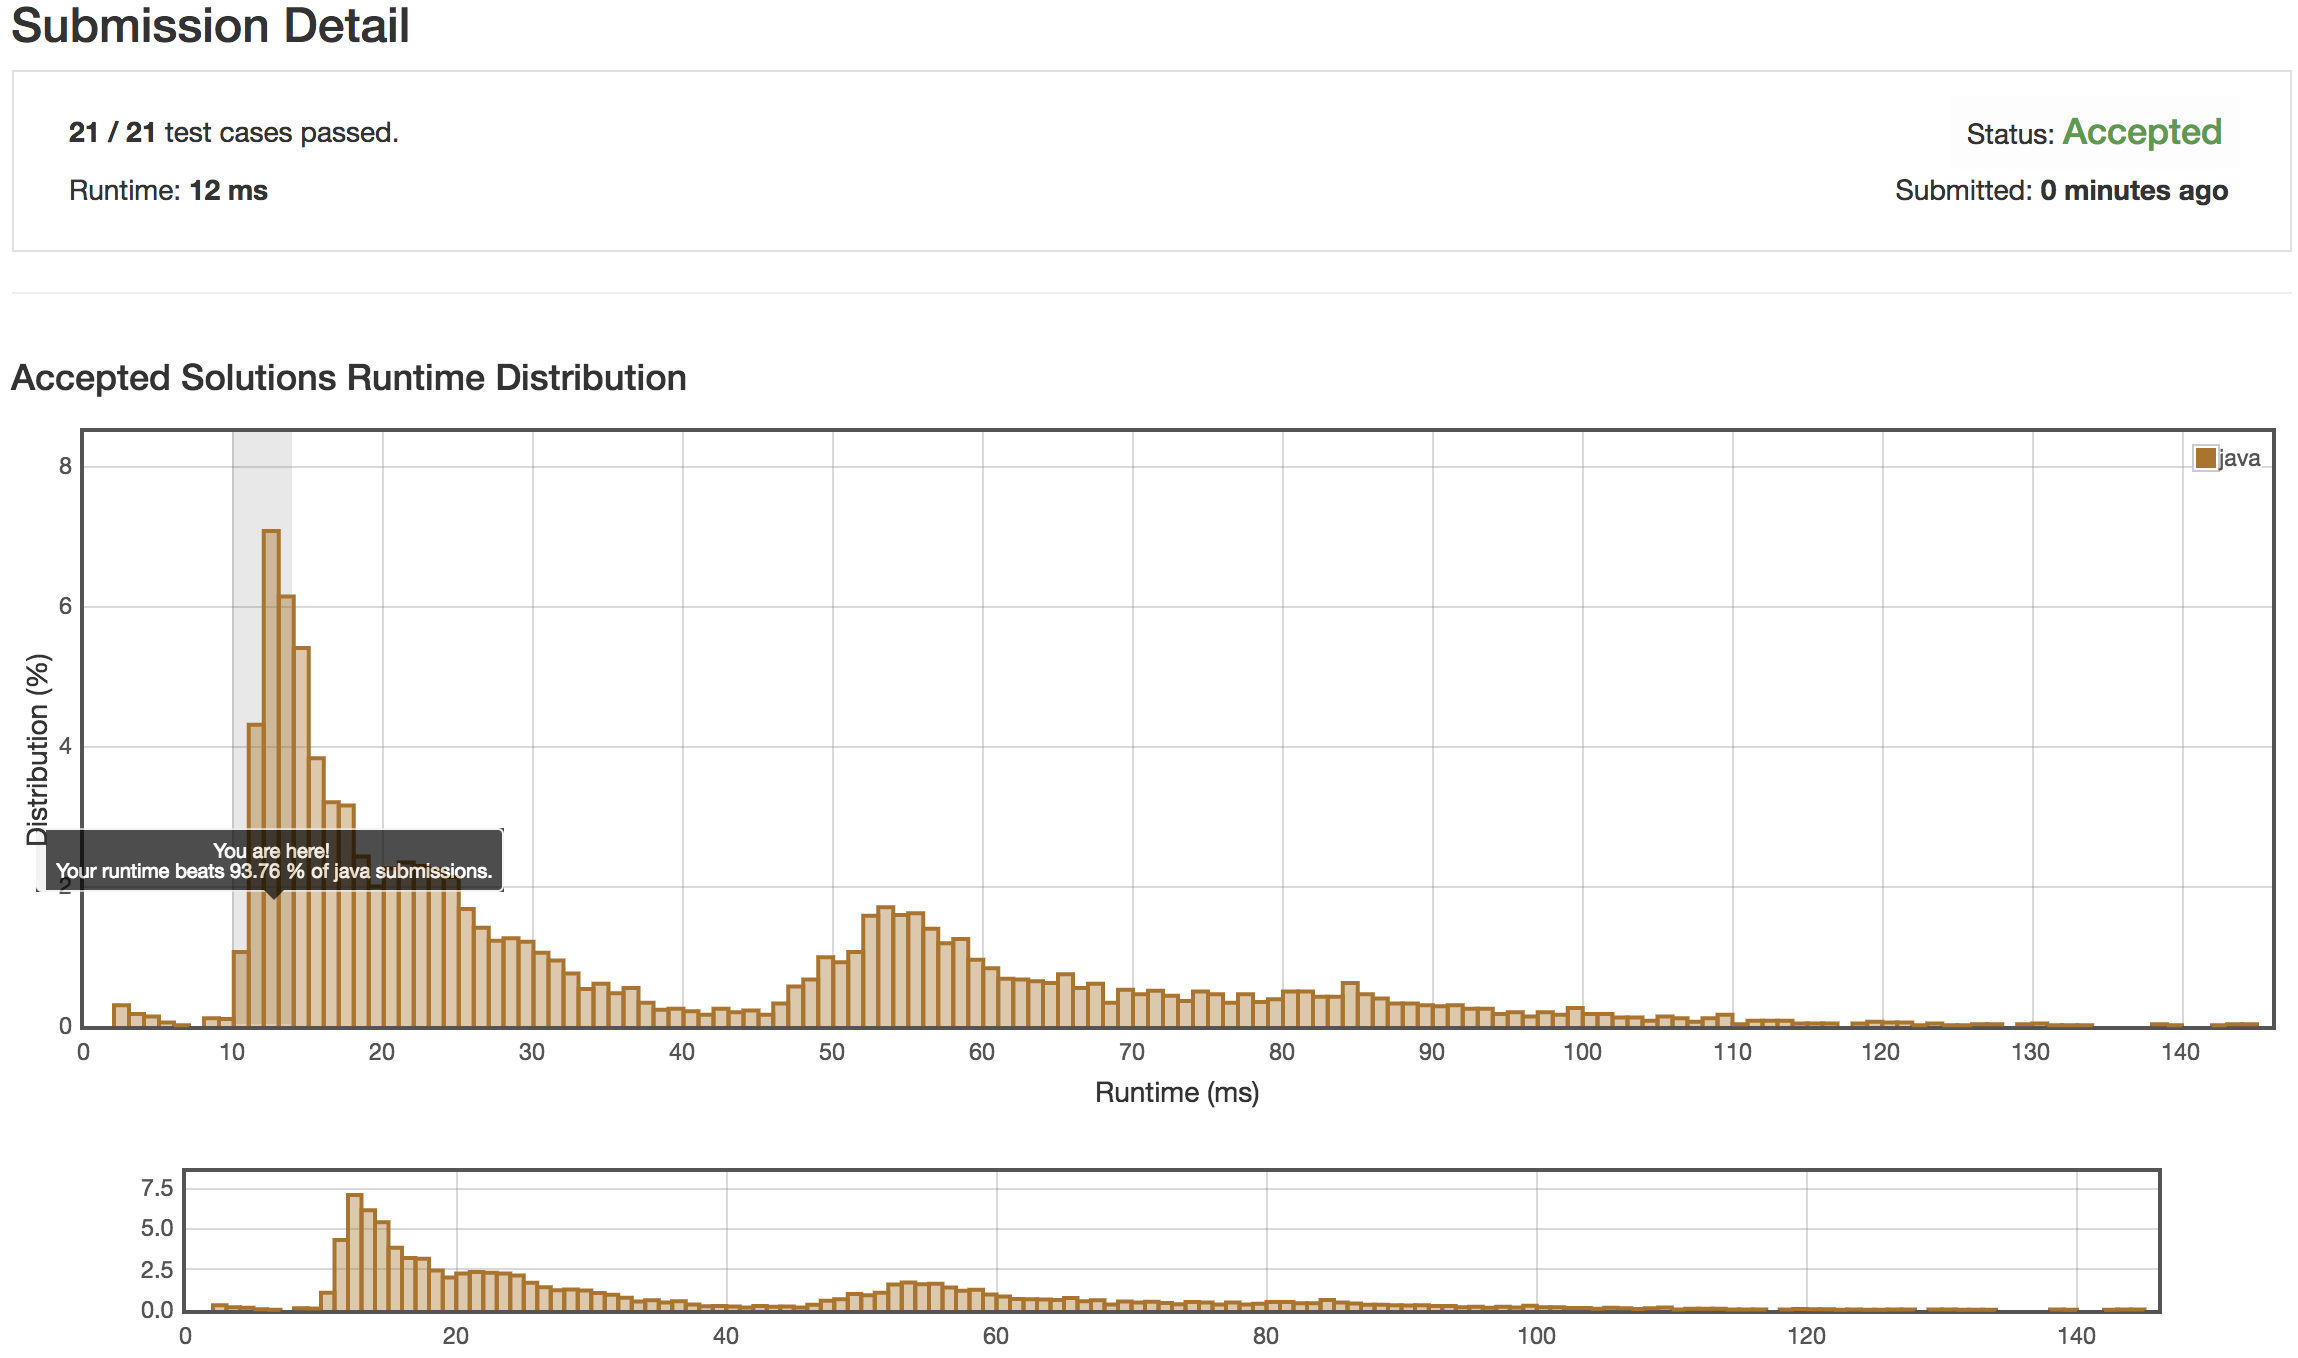
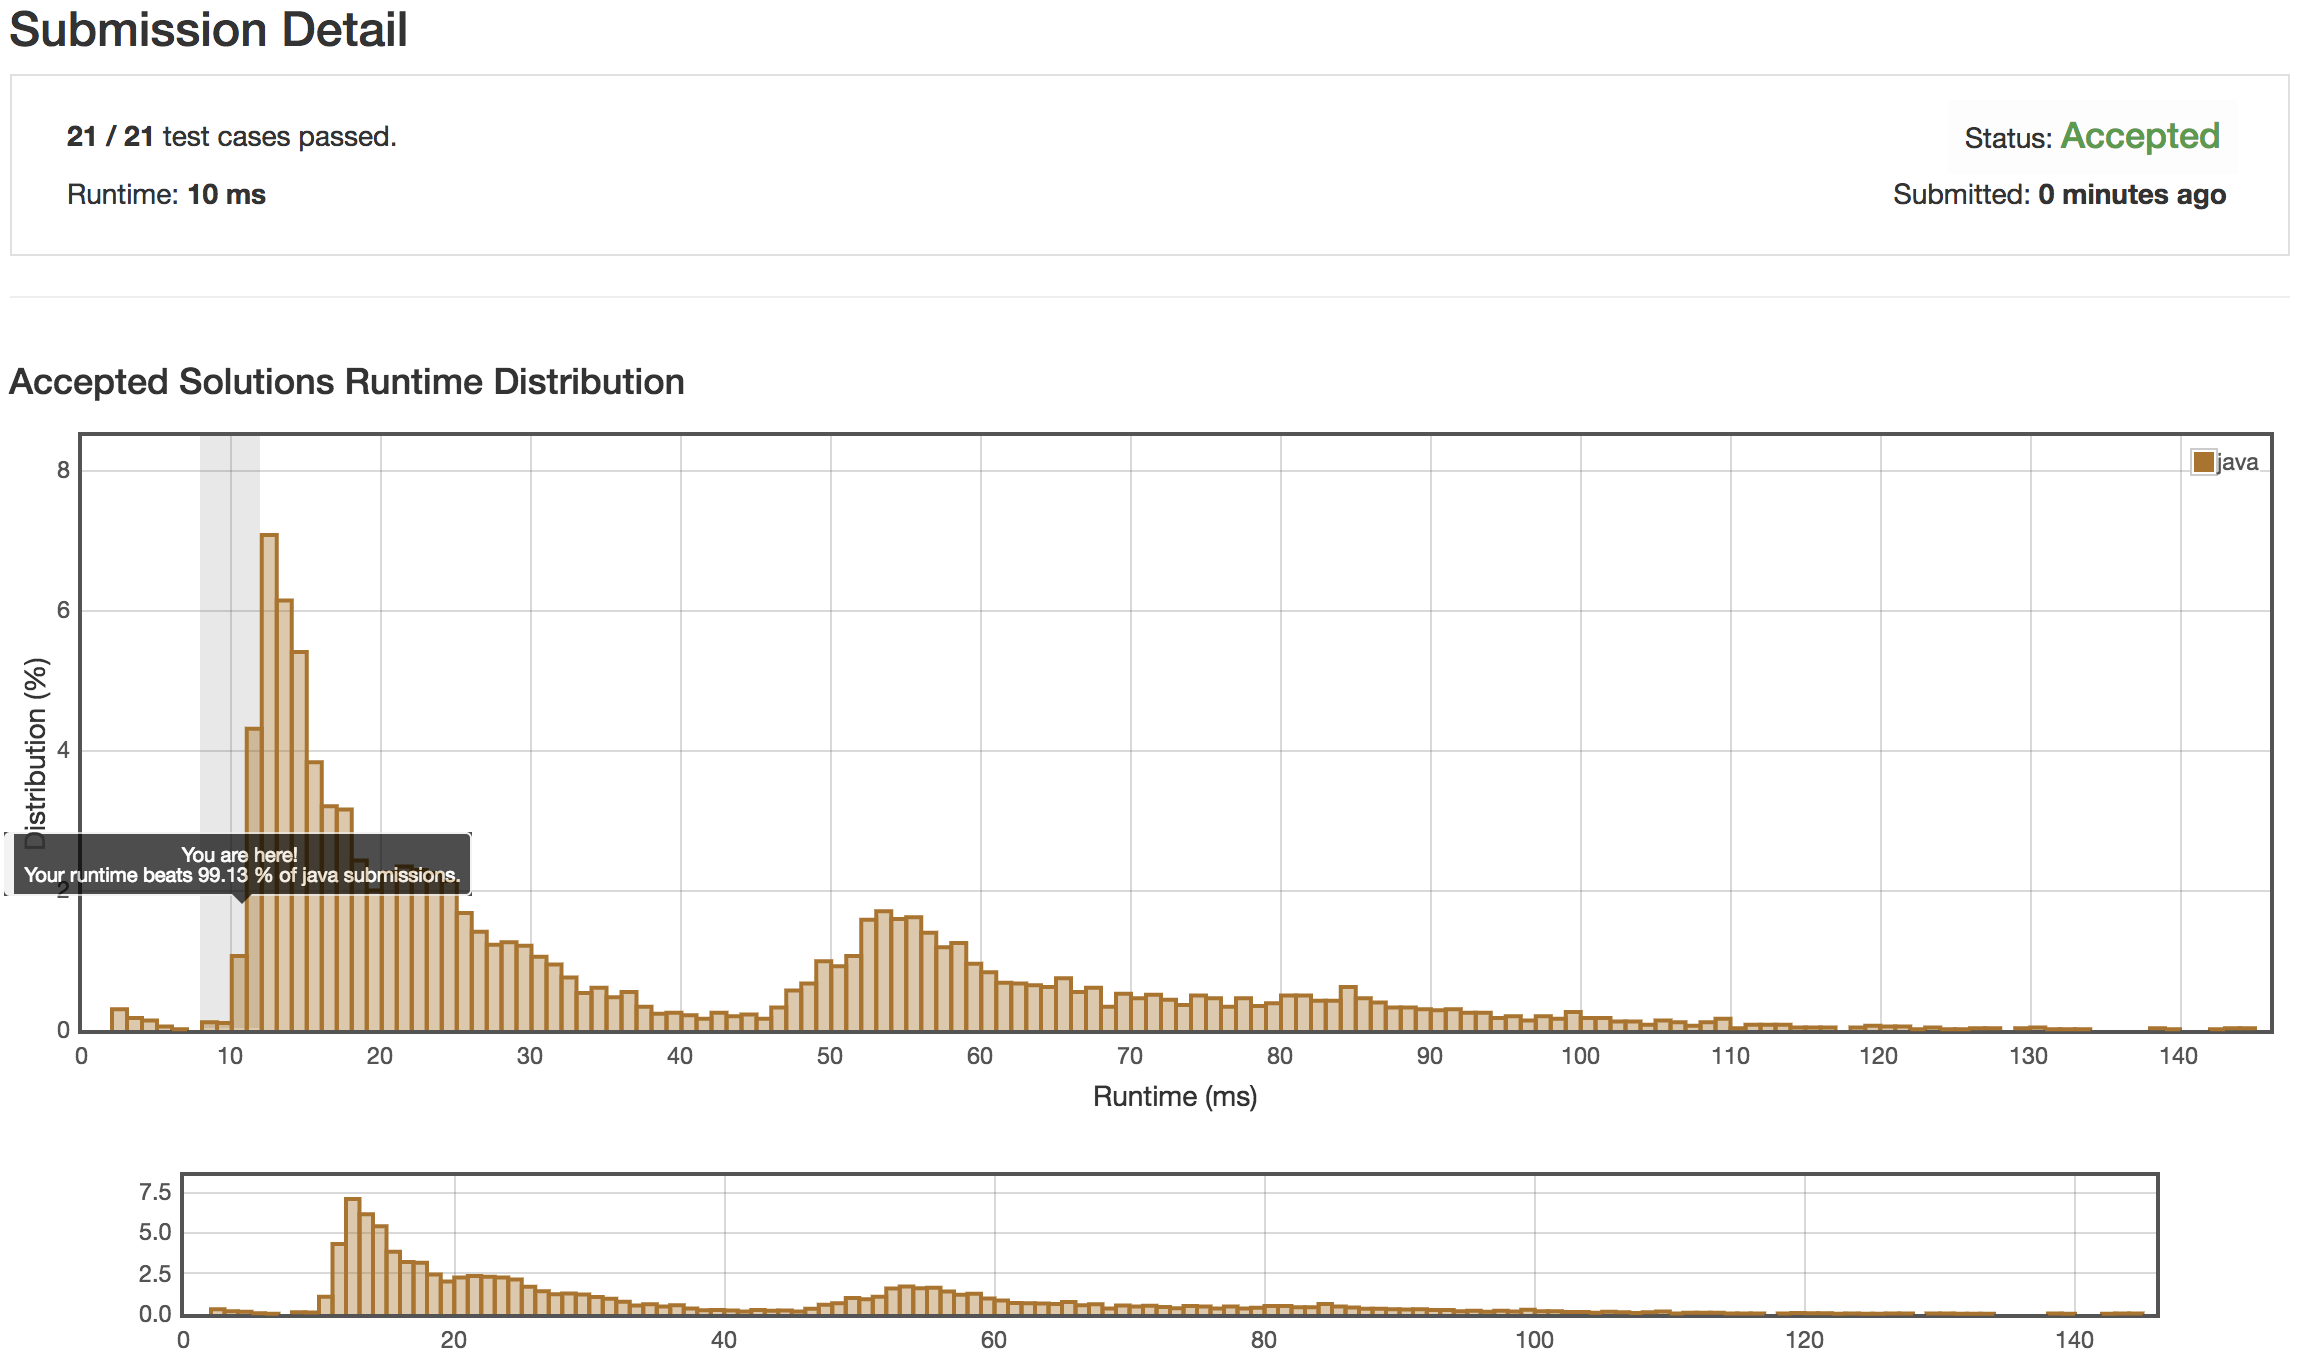
UPDATE solution to O(n) runtime and space complexities

diff --git a/medium/top-k-frequent-elements/TopKFrequentElements.java b/medium/top-k-frequent-elements/TopKFrequentElements.java
@@ -1,17 +1,10 @@
 class Solution {
     
-    static class IntDescendingComparator implements Comparator<Map.Entry<Integer, Integer>> {
-        @Override
-        public int compare(Map.Entry<Integer, Integer> a, Map.Entry<Integer, Integer> b) {
-            return a.getValue() - b.getValue();
-        }
-    }
-    
     public List<Integer> topKFrequent(int[] nums, int k) {
         final List<Integer> res = new ArrayList<Integer>(k);
-
+        final List<Integer>[] frequencies = new List[nums.length+1];
         final Map<Integer, Integer> map = new HashMap<Integer, Integer>();
-        final PriorityQueue<Map.Entry<Integer, Integer>> minHeap = new PriorityQueue<Map.Entry<Integer, Integer>>(k, new IntDescendingComparator());
+        
         Integer val;
         for (int i = 0; i < nums.length; i++) {
             val = map.get(nums[i]);
@@ -22,18 +15,34 @@ class Solution {
             }
         }
 
+        Integer freq;
         for (final Map.Entry<Integer, Integer> entry : map.entrySet()) {
-            if (minHeap.size() < k) {
-                minHeap.offer(entry);
-            } else if (minHeap.peek().getValue() < entry.getValue()) {
-                minHeap.poll();
-                minHeap.offer(entry);
+            freq = entry.getValue();
+            if (frequencies[freq] == null) {
+                frequencies[freq] = new LinkedList<Integer>();
+            }
+            frequencies[freq].add(entry.getKey());
+        }
+        
+        int freqSize;
+        for (int i = frequencies.length - 1; i >= 1; i--) {
+            if (frequencies[i] != null) {
+                freqSize = frequencies[i].size();
+                if (freqSize <= k) {
+                    res.addAll(frequencies[i]);
+                    k -= freqSize;
+                } else {
+                    final Iterator<Integer> it = frequencies[i].iterator();
+                    // No need to check for it.hasNext, as at this point it's guaranteed
+                    // it has at most the same number of elements as `k`
+                    for (int j = 0; j < k; j++) {
+                        res.add(it.next());
+                    }
+                    break;
+                }
             }
         }
         
-        for (int i = 0; i < k; i++) {
-            res.add(minHeap.poll().getKey());
-        }
         return res;
     }
 }

diff --git a/README.md b/README.md
@@ -25,4 +25,4 @@ So far:
 | [Set Matrix Zeroes](medium/set-matrix-zeroes) | Medium | 39.51% | 17th Jan 2019 |
 | [Lexicographical Numbers](medium/lexicographical-numbers) | Medium | 63.16% | 18th Jan 2019 |
 | [Check Completeness of a Binary Tree](medium/check-completeness-of-a-binary-tree) | Medium | 95.57% | 19th Jan 2019 |
-| [Top K Frequent Element](medium/top-k-frequent-elements) | Medium | 93.76% | 23rd Jan 2019 | 
+| [Top K Frequent Element](medium/top-k-frequent-elements) | Medium | 99.13% | 23rd Jan 2019 |
